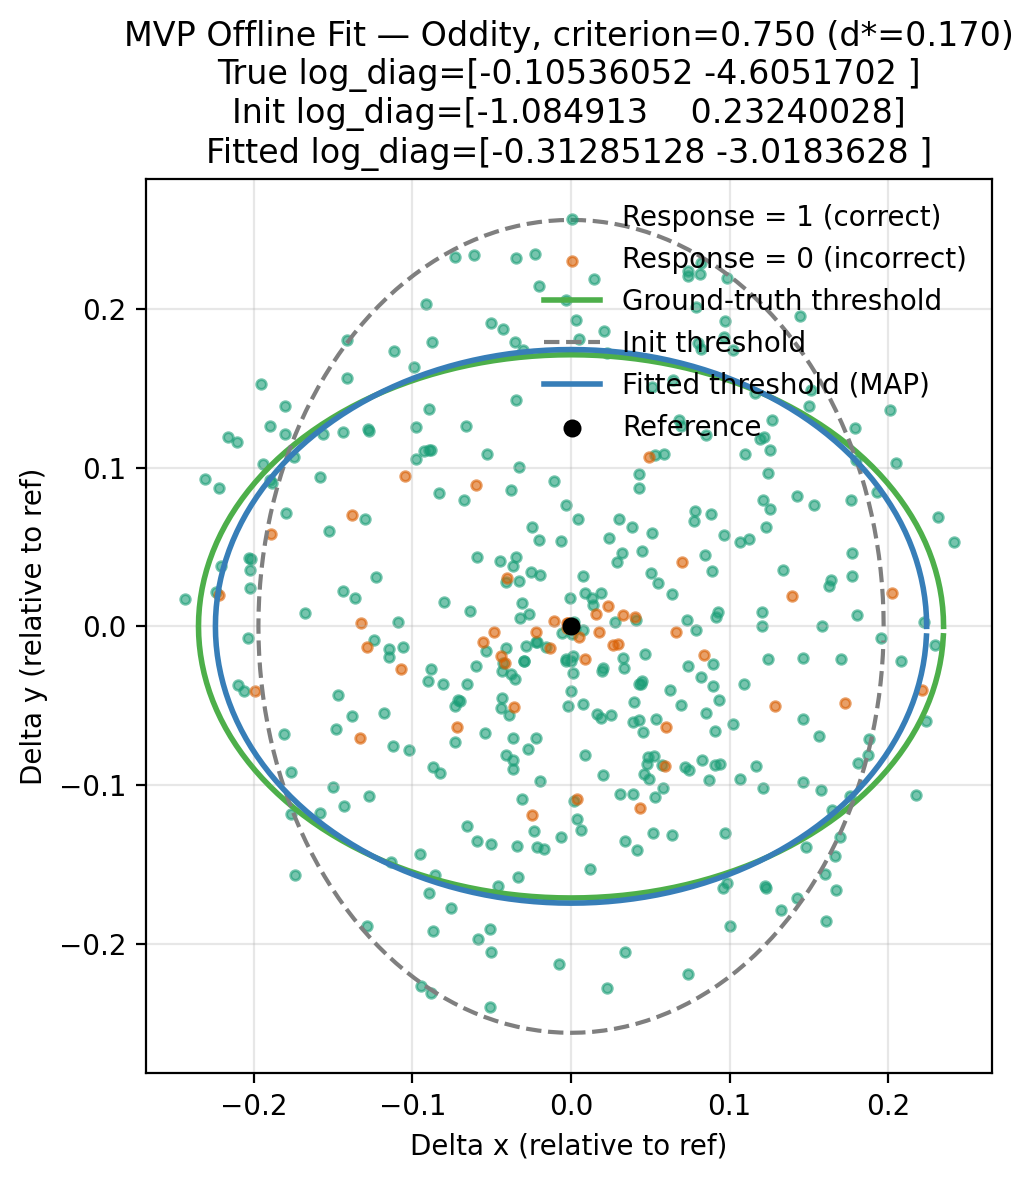
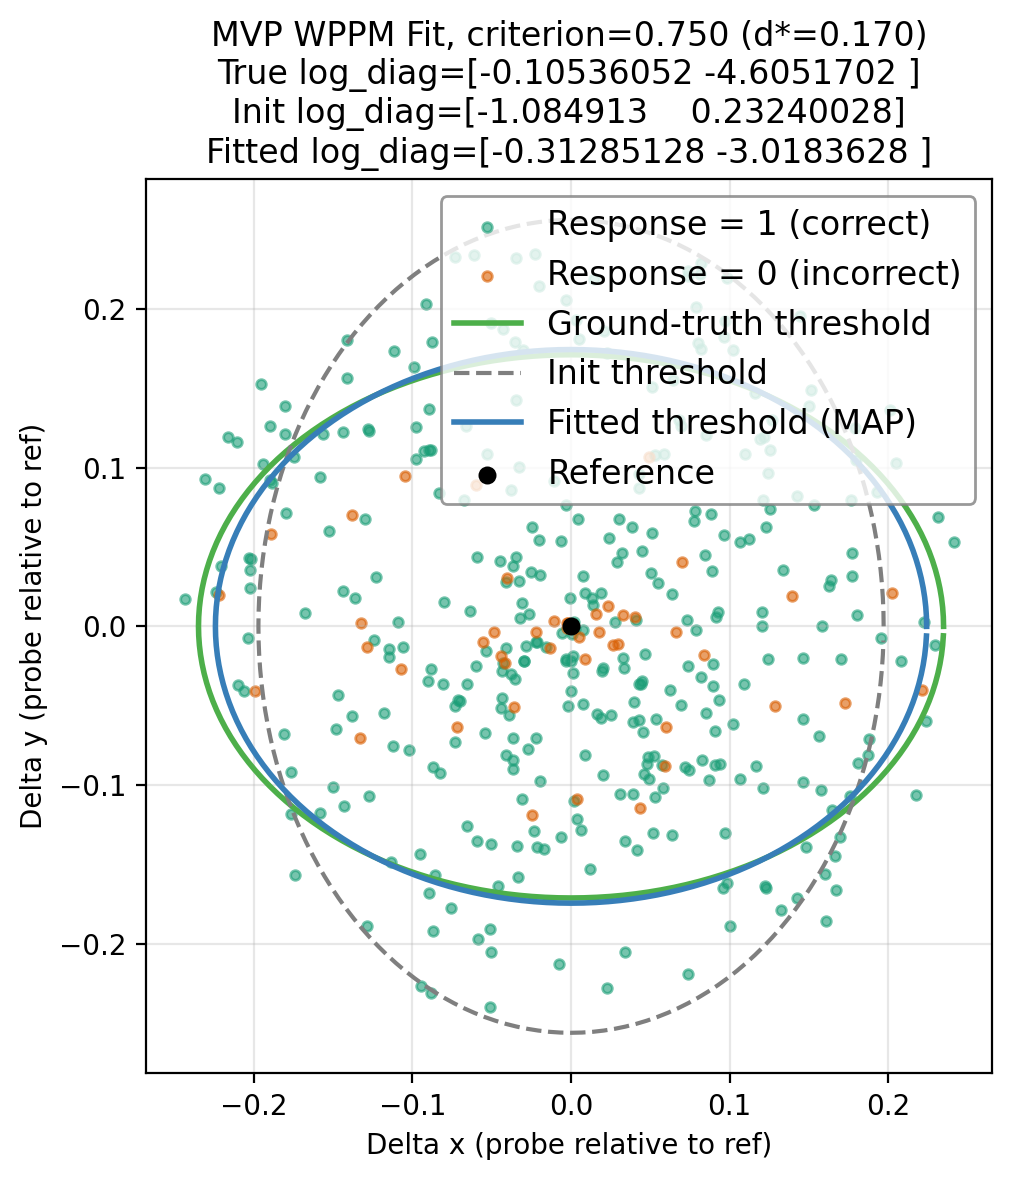
fleshed out example

diff --git a/docs/examples/mvp/offline_fit_mvp.py b/docs/examples/mvp/offline_fit_mvp.py
@@ -90,6 +90,7 @@ def simulate_response(prob_correct: float, rng: np.random.Generator) -> int:
 # Define the "true" covariance we will use to generate synthetic data.
 # We parameterize the model in log-variance space (log_diag) for stability.
 print("[1/6] Setting up ground-truth model and parameters...")
+# --8<-- [start:truth]
 ref_np = np.array([0.0, 0.0], dtype=float)
 log_diag_true = jnp.array([np.log(0.9), np.log(0.01)])  # variances 0.04, 0.01
 Sigma_true = np.diag(np.exp(np.array(log_diag_true)))
@@ -99,6 +100,7 @@ noise = GaussianNoise(sigma=1.0)     # additive isotropic Gaussian noise
 truth_prior = Prior.default(input_dim=2)  # not used to generate, but WPPM requires a prior
 truth_model = WPPM(input_dim=2, prior=truth_prior, task=task, noise=noise)
 truth_params = {"log_diag": log_diag_true}
+# --8<-- [end:truth]
 print("    Ground truth log_diag:", np.array(log_diag_true))
 print("    Ground truth covariance diag:", np.exp(np.array(log_diag_true)))
 
@@ -108,6 +110,7 @@ print("    Ground truth covariance diag:", np.exp(np.array(log_diag_true)))
 print("[2/6] Simulating synthetic trials around reference:", ref_np)
 # random polar probes around ref; compute p(correct) with
 #  true Σ and the Oddity mapping; sample 0/1 responses.
+# --8<-- [start:data]
 rng = np.random.default_rng(0)
 data = ResponseData()
 num_trials = 400
@@ -120,24 +123,58 @@ for _ in range(num_trials):
     p = float(truth_model.predict_prob(truth_params, (jnp.array(ref_np), jnp.array(probe_np))))
     y = simulate_response(p, rng)
     data.add_trial(ref=ref_np.copy(), probe=probe_np.copy(), resp=y)
+# --8<-- [end:data]
 print(f"    Generated {num_trials} trials (max radius {max_radius}).")
+
+
+fig, ax = plt.subplots(figsize=(6, 6))
+refs_np, probes_np, responses_np = data.to_numpy()
+probes_rel = probes_np - refs_np
+
+ax.scatter(probes_rel[responses_np == 1, 0], probes_rel[responses_np == 1, 1], s=12, c="#1b9e77", alpha=0.6, label="Response = 1 (correct)")
+ax.scatter(probes_rel[responses_np == 0, 0], probes_rel[responses_np == 0, 1], s=12, c="#d95f02", alpha=0.6, label="Response = 0 (incorrect)")
+
+ax.scatter([0.0], [0.0], c="k", s=30, zorder=5, label="Reference")
+ax.set_aspect("equal", adjustable="box")
+ax.set_xlabel("Delta x (probe relative to ref)")
+ax.set_ylabel("Delta y (probe relative to ref)")
+ax.set_title(
+    f"Simulated Trials \n"
+)
+ax.legend(loc="upper right", frameon=True, facecolor="white", edgecolor="gray", fontsize=12)
+ax.grid(True, alpha=0.3)
+plt.tight_layout()
+
+# Save thresholds figure with a filename encoding lr and steps
+os.makedirs(PLOTS_DIR, exist_ok=True)
+base = f"simulated_trials"
+thresh_path = os.path.join(PLOTS_DIR, f"{base}.png")
+fig.savefig(thresh_path, dpi=200, bbox_inches="tight")
+print(f"    Saved thresholds plot to {thresh_path}")
+plt.show()
 
 # ---------- 3) Model + prior + init ----------
 # Build the model we will fit. The prior controls regularization; increasing
 # `scale` weakens the pull of the prior. We initialize from this prior.
 print("[3/6] Initializing model from prior...")
+# --8<-- [start:model]
+# from psyphy.model.prior import Prior
+# from psyphy.model.wppm import WPPM
+
 prior = Prior.default(input_dim=2, scale=0.5)
 model = WPPM(input_dim=2, prior=prior, task=task, noise=noise)
 init_params = model.init_params(jax.random.PRNGKey(42))
+# --8<-- [end:model]
 print("    Init log_diag:", np.array(init_params["log_diag"]))
 print("    Init covariance diag:", np.exp(np.array(init_params["log_diag"])))
 
 # ---------- 4) MAP fit (with learning curve) ----------
 # Optimize the negative log posterior with Optax; record loss every 10 steps
 # to display a learning curve. We JIT-compile a single step for speed.
+# --8<-- [start:training]
 steps = 1000
 lr = 2e-2
-print(f"[4/6] Running MAP optimization ({steps} steps, SGD+momentum, lr={lr})...")
+
 opt = optax.sgd(learning_rate=lr, momentum=0.9)
 
 # Define loss = negative log posterior (minimize it)
@@ -145,14 +182,21 @@ def _loss_fn(params):
     return -model.log_posterior_from_data(params, data)
 
 # Start from prior init
-params = init_params
+params = init_params # PyTree of parameters (dict of arrays)
 opt_state = opt.init(params)
 
+
+# perform a single optimization step
+# with JIT-compiling the function for efficient execution on accelerators (CPU/GPU/TPU)
+# making the optimization loop much faster
 @jax.jit
 def _step(params, opt_state):
+    # Ensure params and opt_state are JAX PyTrees for JIT compatibility
+    # (e.g., dicts of arrays, not custom Python objects)
     loss, grads = jax.value_and_grad(_loss_fn)(params)
     updates, opt_state = opt.update(grads, opt_state, params)
     params = optax.apply_updates(params, updates)
+    # Only return JAX-compatible types (PyTrees of arrays, scalars)
     return params, opt_state, loss
 
 # Track loss every 10 steps
@@ -165,6 +209,8 @@ for i in range(steps):
         loss_values.append(float(loss))
 
 fitted_params = params
+# --8<-- [end:training]
+print(f"[4/6] Running MAP optimization ({steps} steps, SGD+momentum, lr={lr})...")
 print("    Fitted (MAP) log_diag:", np.array(fitted_params["log_diag"]))
 print("    Fitted covariance diag:", np.exp(np.array(fitted_params["log_diag"])))
 
@@ -205,9 +251,10 @@ print("    Init ellipse semi-axes:", axes_init)
 print("    Fit  ellipse semi-axes:", axes_fit)
 
 # ---------- 6) Plot ----------
-# Left: the synthetic trials (relative to the reference) and 3 threshold ellipses.
-# Right (separate figure): learning curve (neg log posterior vs. step).
+# plot 1: the synthetic trials (relative to the reference) and 3 threshold ellipses
+# plot 2: learning curve (neg log posterior vs. step).
 print("[6/6] Rendering scatter and contours...")
+
 fig, ax = plt.subplots(figsize=(6, 6))
 refs_np, probes_np, responses_np = data.to_numpy()
 probes_rel = probes_np - refs_np
@@ -221,15 +268,15 @@ ax.plot(contour_fit[:, 0] - ref_np[0], contour_fit[:, 1] - ref_np[1], color="#37
 
 ax.scatter([0.0], [0.0], c="k", s=30, zorder=5, label="Reference")
 ax.set_aspect("equal", adjustable="box")
-ax.set_xlabel("Delta x (relative to ref)")
-ax.set_ylabel("Delta y (relative to ref)")
+ax.set_xlabel("Delta x (probe relative to ref)")
+ax.set_ylabel("Delta y (probe relative to ref)")
 ax.set_title(
-    f"MVP Offline Fit — Oddity, criterion={criterion:.3f} (d*={d_thr:.3f})\n"
+    f"MVP WPPM Fit, criterion={criterion:.3f} (d*={d_thr:.3f})\n"
     f"True log_diag={np.array(log_diag_true)}\n"
     f"Init log_diag={np.array(init_params['log_diag'])}\n"
     f"Fitted log_diag={np.array(fitted_params['log_diag'])}"
 )
-ax.legend(loc="upper right", frameon=False)
+ax.legend(loc="upper right", frameon=True, facecolor="white", edgecolor="gray", fontsize=12)
 ax.grid(True, alpha=0.3)
 plt.tight_layout()
 
@@ -242,7 +289,7 @@ fig.savefig(thresh_path, dpi=200, bbox_inches="tight")
 print(f"    Saved thresholds plot to {thresh_path}")
 plt.show()
 
-# Learning curve figure
+# plot 2: Learning curve figure
 fig2, ax2 = plt.subplots(figsize=(6, 4))
 ax2.plot(loss_iters, loss_values, color="#4444aa")
 ax2.set_title(f"Learning curve (neg log posterior) — lr={lr}, steps={steps}")

diff --git a/docs/examples/mvp/offline_fit_mvp.md b/docs/examples/mvp/offline_fit_mvp.md
@@ -1,20 +1,201 @@
-# MVP Offline Fit
+# Predicting Thesholds with MVP WMMP for Simulated Trials
 
-This example fits the MVP WPPM model to synthetic 2D data and saves two plots:
+This toy example fits the MVP WPPM model to synthetic 2D data and produced a 
+figure showing the predicted thresholds around the reference including 
+the ground-truth, init threshold contours.
 
-- Thresholds around the reference (ground-truth, init, fitted)
-- Learning curve (negative log posterior vs steps)
+You can run this example yourself via the corresponding [standalone script](docs/examples/mvp/offline_fit_mvp.py).
 
-Generated plots (from running `docs/examples/mvp/offline_fit_mvp.py`):
+## Overview
 
+This example demonstrates how to use the minimal viable product (MVP) version of the Wishart Process Psychophysical Model (WPPM) to:
+1. Simulate synthetic behavioral data (responses to reference–probe stimuli),
+2. Fit the WPPM to this data via MAP optimization,
+3. Visualize *isoperformance contours* (threshold ellipses) implied by the fitted covariance.
+
+The MVP WPPM makes strong simplifying assumptions:
+- The local covariance structure of perceptual encoding is constant across space,
+- The covariance is diagonal (no correlations -> axis-aligned ellipses),
+- Task likelihoods (e.g., Oddity 3AFC) are closed-form mappings from discriminability to response probability.
+
+Future extensions will relax these assumptions using the full Wishart Process framework.
+
+
+
+## Data
+
+### Ground Truth Setup
+```python title="Truth"
+--8<-- "docs/examples/mvp/offline_fit_mvp.py:truth"
+```
+### Covariance Parameterization
+
+In the MVP, the perceptual encoding at a stimulus location is described by a diagonal covariance matrix:
+
+$$
+\Sigma = \mathrm{diag}\big( \exp(\text{log\_diag}) \big)
+$$
+
+- `log_diag` is a free parameter vector in $\mathbb{R}^d$.
+- Exponentiation ensures variances are always positive.
+- The diagonal restriction means no correlations are modeled between stimulus dimensions.
+- If the entries of `log_diag` are equal, isoperformance contours are circles; otherwise they are axis-aligned ellipses.
+
+Example:
+- `log_diag = [\log 0.04, \log 0.01]` 
+-> $\Sigma = \begin{bmatrix}0.04 & 0 \\ 0 & 0.01\end{bmatrix}$
+
+
+### Simulating Trials
+
+
+
+For each trial:
+
+1. Compute discriminability \(d\) between the reference and probe under the ground-truth covariance \(\Sigma\).
+2. Map \(d\) to the probability of a correct response using the Oddity task mapping (chance = \(1/3\), monotonically increasing with \(d\)).
+3. Sample a binary response (\(0 =\) incorrect (orange), \(1 =\) correct (green)) 
+
+This procedure yields a dataset of probe positions relative to the reference together with simulated subject responses (color-coded), namely if they correctly answered the question: *“Are the reference and probe the same?”*..  
+
+
+<figure markdown="1">
+![Simulated Trials](plots/simulated_trials.png)
+</figure>
+
+Synthetic trials are generated by placing probes around a fixed reference at random polar coordinates:
+
+- Angle: sampled uniformly in $[0, 2\pi)$,
+- Radius: sampled uniformly up to a maximum (here, 0.25).
+
+```python title="Data"
+--8<-- "docs/examples/mvp/offline_fit_mvp.py:data"
+```
+
+
+**Caveats: approximation the MVP makes**:
+
+- **Stimuli:** In the MVP, we only simulate *two stimuli* (reference + probe). This looks like a **yes/no same–different task**: *“Are ref and probe the same?”*.
+- **Likelihood:** However, the likelihood function assumes a 3AFC oddity mapping as in [Hong et al](https://www.biorxiv.org/content/10.1101/2025.07.16.665219v1.full), where chance performance is 1/3 and performance grows with discriminability. This means the MVP *stimulus structure* resembles 2AFC, but the *response model* is parameterized like 3AFC.
+
+By contrast, in the full model used in [Hong et al](https://www.biorxiv.org/content/10.1101/2025.07.16.665219v1.full) the 3AFC task is set up as follows:
+- Three stimuli are explicitly simulated (2 reference samples + 1 probe)
+- Internal noisy representations are drawn for all three
+- Multiple Mahalanobis distances are computed, and the likelihood is defined by which stimulus is the odd one out.
+
+Thus, the 3AFC stub in the MVP version should be seen as a computational shortcut: a two-stimulus discriminability measure passed through a 3AFC-style mapping.
+
+## Model
+```python title="Model"
+--8<-- "docs/examples/mvp/offline_fit_mvp.py:model"
+```
+
+### Discriminability and Task Mapping
+
+The WPPM defines **discriminability** between a reference $r$ and probe $p$ as the Mahalanobis distance:
+
+$$
+d(r, p; \Sigma) = \sqrt{ (p-r)^\top \left(\Sigma + \epsilon I\right)^{-1} (p-r) }
+$$
+
+- $\Sigma$ is the local covariance (constant and diagonal in MVP)
+- $\epsilon I$ is a small jitter term for numerical stability
+
+For the Oddity task (3AFC), discriminability is mapped to the probability of a correct response:
+
+$$
+P(\text{correct} \mid d) = \tfrac{1}{3} + \tfrac{2}{3}\cdot \tfrac{1}{2}\left( \tanh(\text{slope}\cdot d) + 1 \right)
+$$
+
+- Chance level is $1/3$,
+- Performance rises monotonically with $d$,
+- The `slope` parameter controls steepness
+
+## Training / Fitting
+
+```python title="Training"
+--8<-- "docs/examples/mvp/offline_fit_mvp.py:training"
+```
+### MAP Estimation
+
+We fit the model via maximum a posteriori (MAP) optimization:
+
+$$
+\hat{\theta} = \arg\max_\theta \Big[ \log p(\text{data}\mid\theta) + \log p(\theta) \Big]
+$$
+
+- Parameters: $\theta = \text{log\_diag}$,
+- Likelihood: Bernoulli log-likelihood of observed responses given task mapping,
+- Prior: Gaussian on `log_diag` (implying log-normal prior on variances).
+
+Optimization uses stochastic gradient descent (`optax.sgd`).
+
+## Results
+
+### Predicted Thresholds 
+
+Given a target criterion (e.g. 75% correct), we compute the required discriminability $d^{*}$ by inverting the task mapping. 
+
+Isoperformance contours (threshold ellipses) around the reference satisfy:
+
+$$
+(p-r)^\top \Sigma^{-1} (p-r) = (d^{*})^2
+$$
+
+- For diagonal $\Sigma$, this is an axis-aligned ellipse with semi-axes $d^{*}\sqrt{\sigma_x^2}, \ d^{*} \sqrt{\sigma_y^2}$.
+- If $\sigma_x = \sigma_y$, the ellipse is a circle.
+- With off-diagonal terms (future extension), ellipses can be rotated.
+
+Plots show the ellipses for:
+- **ground truth covariance**,
+- **Initial prior sample**,
+- **fitted parameters (MAP)**.
+
+<figure markdown="1">
 ![Thresholds](plots/offline_fit_mvp_lr2e-2_steps1000_thresholds.png)
+</figure>
 
+### Learning Curve
+<figure markdown="1">
 ![Learning curve](plots/offline_fit_mvp_lr2e-2_steps1000_learning_curve.png)
+</figure>
 
-Run the underlying script:
+
+---
+---
+
+## Future Extensions
+This example provides a minimal but extensible foundation for these developments.
+The MVP assumes constant, diagonal covariance. The full WPPM will extend this by:
+
+1. **Spatial variation**: covariance $\Sigma(x)$ varying smoothly with stimulus position
+2. **Correlations**: full covariance matrices (non-diagonal, rotated ellipses)
+3. **Wishart Process Prior**: placing a structured prior over the entire covariance field,
+4. **Monte Carlo tasks**: supporting tasks without closed-form mappings
+
+
+
+---
+
+
+Generated plots from 
+this  underlying script:
 
 ```bash
 python docs/examples/mvp/offline_fit_mvp.py
 ```
 
 The script writes plots into `docs/examples/mvp/plots/` and this page embeds them.
+
+
+---
+
+<!-- 
+Show code above but don't execute and include generated plots.
+
+- How to format code blocks: https://squidfunk.github.io/mkdocs-material/reference/code-blocks/#usage
+- Options for including code from a separate file: https://facelessuser.github.io/pymdown-extensions/extensions/snippets/#snippets-notation
+- Options for executing code in blocks: https://pawamoy.github.io/markdown-exec/usage/#render-the-source-code-as-well
+- Options for displaying plots: https://pawamoy.github.io/markdown-exec/gallery/#with-matplotlib
+- Options for sharing variables between code blocks etc.: https://pawamoy.github.io/markdown-exec/usage
+-->
